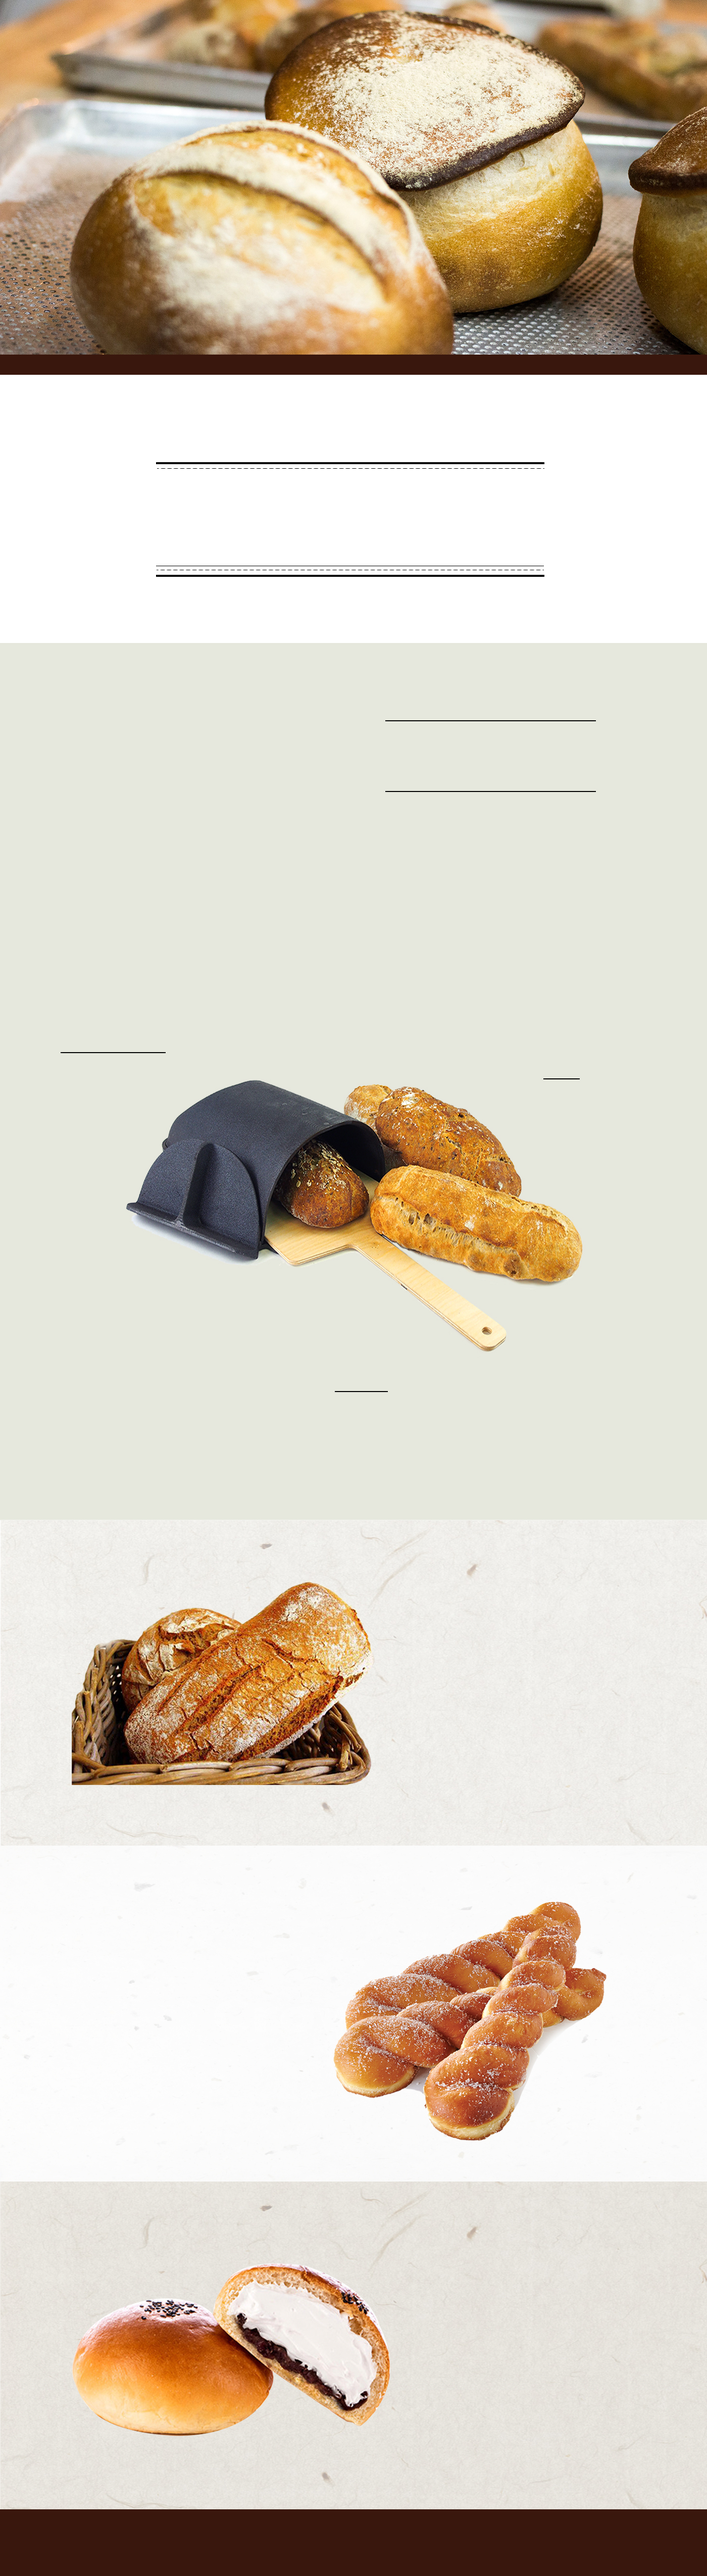
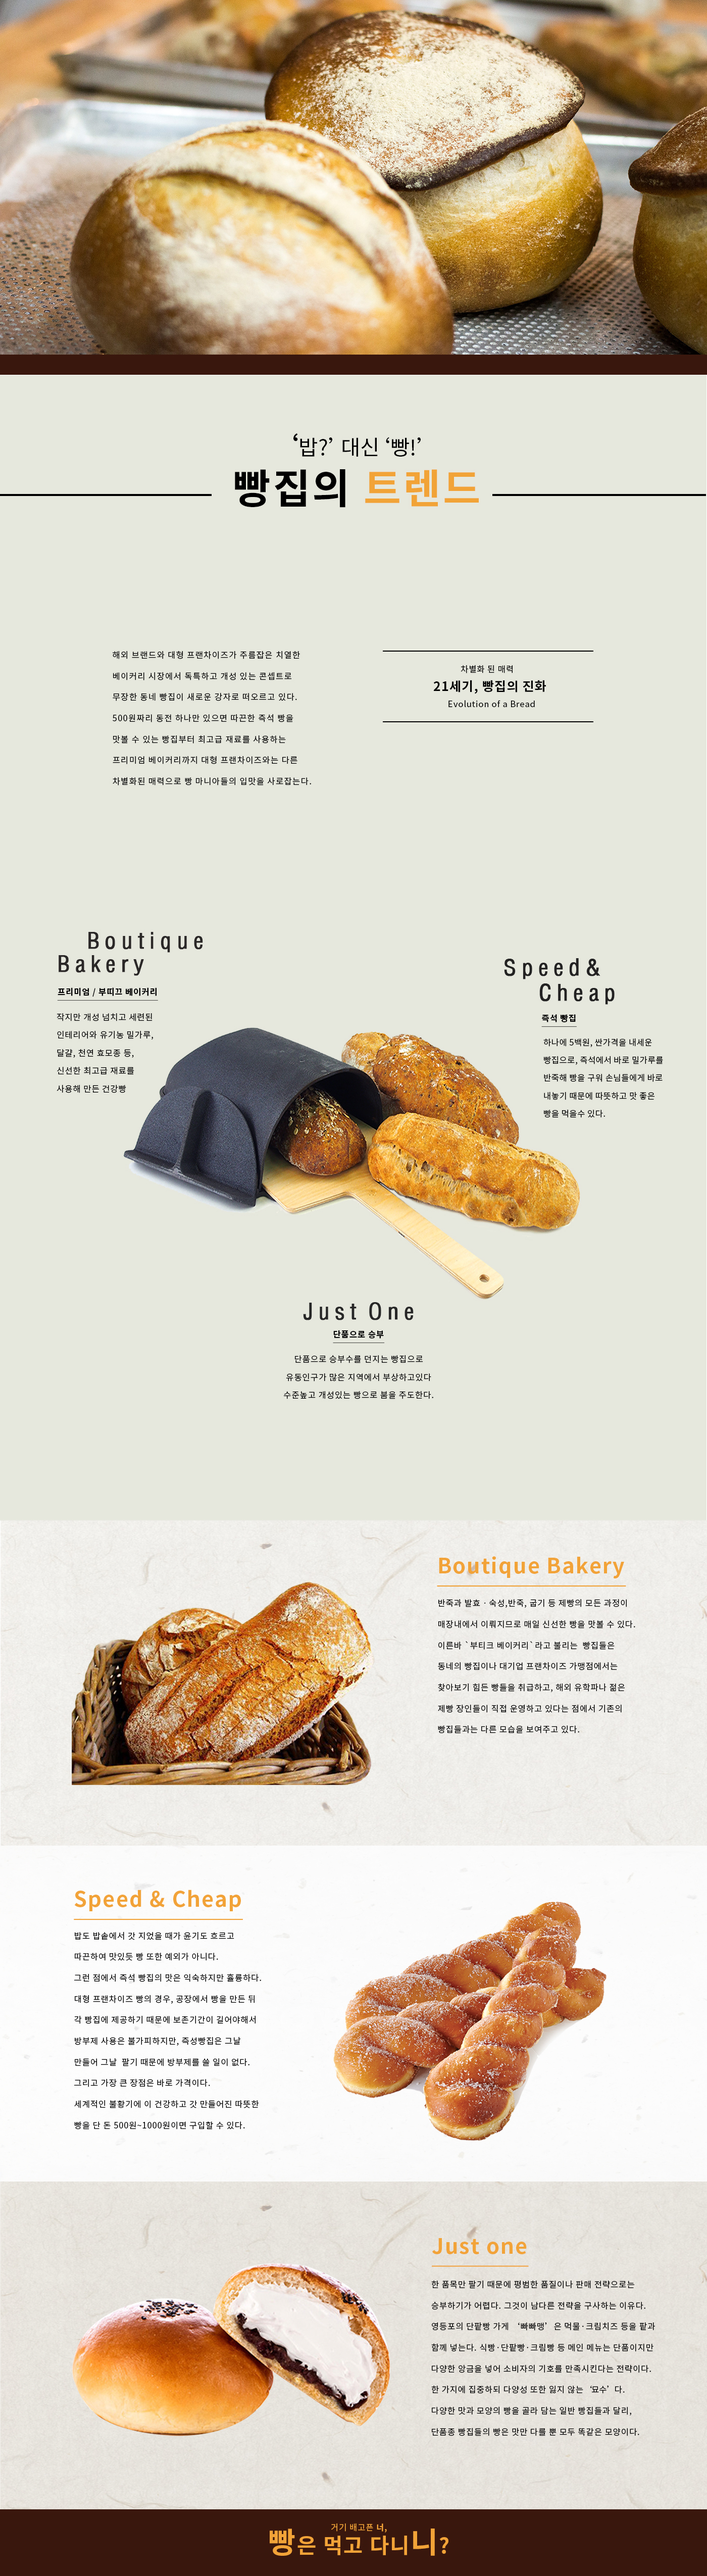
Add files via upload

diff --git a/index.html b/index.html
@@ -39,30 +39,32 @@
 		#contents1 { background: url('./img/2.jpg') no-repeat 50% 50%; background-size:100%  margin:0 auto; height:5100px; }
 	
 
-		#contents1 #p20 {top:-200px; left:540px; font-size:3em; line-height: 1.4; font-weight: 400;  }
-		#contents1 #p21 {top:-130px; left:455px; font-size:5em; line-height: 1.4; font-weight: 700; letter-spacing: 0.3px; }
-		#contents1 #p22 {top:-240px; left:705px; font-size:5em; line-height: 1.4; font-weight: 700;  color:#f2a338; }
+		#contents1 #p20 {top:-170px; left:540px; font-size:3em; line-height: 1.4; font-weight: 400;  }
+		#contents1 #p21 {top:-180px; left:455px; font-size:5em; line-height: 1.4; font-weight: 700; letter-spacing: 0.3px; }
+		#contents1 #p22 {top:-292px; left:705px; font-size:5em; line-height: 1.4; font-weight: 700;  color:#f2a338; }
 
 		
-		#contents1 #p1 {top:1415px; left:230px; font-size:1.15em; line-height: 2.3; font-weight: 400; }
+		#contents1 #p1 {top:1285px; left:230px; font-size:1.15em; line-height: 2.3; font-weight: 400; }
 		
-		#contents1 #p2 {top:1150px; left:920px; font-size:1.1em; line-height: 2.3; font-weight: 400; }
-		#contents1 #p3 {top:1135px; left:865px; font-size:1.7em; line-height: 2.2; font-weight: 700; }
-		#contents1 #p10 {top:1125px; left:895px; font-size:1.1em; line-height: 2.2; font-weight: 400; }
+		#contents1 #p2 {top:1010px; left:920px; font-size:1.1em; line-height: 2.3; font-weight: 400; }
+		#contents1 #p3 {top:995px; left:865px; font-size:1.7em; line-height: 2.2; font-weight: 700; }
+		#contents1 #p10 {top:985px; left:895px; font-size:1.1em; line-height: 2.2; font-weight: 400; }
 		
 
-		#contents1 #p4 {top:1615px; left:120px; font-size:1.1em; line-height: 2.4; font-weight: 700;letter-spacing: -0.4px; }
-		#contents1 #p5 {top:1625px; left:120px; font-size:1.1em; line-height: 2.1; font-weight: 400; }
+		#contents1 #p4 {top:1495px; left:120px; font-size:1.1em; line-height: 2.4; font-weight: 700;letter-spacing: -0.4px; }
+		#contents1 #p5 {top:1505px; left:120px; font-size:1.1em; line-height: 2.1; font-weight: 400; }
 		
-		#contents1 #p6 {top:1445px; left:1075px; font-size:1.1em; line-height: 2.4; font-weight: 700; letter-spacing: -0.4px;}
-		#contents1 #p7 {top:1455px; left:1075px; font-size:1.1em; line-height: 2.1; font-weight: 400; letter-spacing: -0.4px;}
+		#contents1 #p6 {top:1345px; left:1075px; font-size:1.1em; line-height: 2.4; font-weight: 700; letter-spacing: -0.4px;}
+		#contents1 #p7 {top:1355px; left:1075px; font-size:1.1em; line-height: 2.1; font-weight: 400; letter-spacing: -0.4px;}
 		
-		#contents1 #p8 {top:1845px; left:14px; font-size:1.1em; line-height: 2.4; font-weight: 700; text-align:center;letter-spacing: -0.5px;}
-		#contents1 #p9 {top:1855px; left:11px; font-size:1.1em; line-height: 2.1; font-weight: 400; text-align:center; }
+		#contents1 #p8 {top:1745px; left:14px; font-size:1.1em; line-height: 2.4; font-weight: 700; text-align:center;letter-spacing: -0.5px;}
+		#contents1 #p9 {top:1755px; left:11px; font-size:1.1em; line-height: 2.1; font-weight: 400; text-align:center; }
 
-		#contents1 #p11 {top:625px; left:118px; font-size:2.6em; line-height: 1.1; font-weight: 600;letter-spacing: 1.5px;}
-		#contents1 #p12 {top:585px; left:1000px; font-size:2.6em; line-height: 1.1; font-weight: 600;letter-spacing: 1.5px;}
-		#contents1 #p13 {top:1170px; left:620px; font-size:2.6em; line-height: 1.1; font-weight: 600;letter-spacing: 1.5px;}
+		#contents1 #p11 {top:505px; left:118px; font-size:2.6em; line-height: 1.1; font-weight: 600;letter-spacing: 1.5px;}
+		
+		#contents1 #p12 {top:485px; left:1000px; font-size:2.6em; line-height: 1.1; font-weight: 600;letter-spacing: 1.5px;}
+		
+		#contents1 #p13 {top:1070px; left:620px; font-size:2.6em; line-height: 1.1; font-weight: 600;letter-spacing: 1.5px;}
 
 		#contents1 #p14 {top:1540px; left:870px; font-size:2.6em; line-height: 1.1; font-weight: 600;letter-spacing: 1.5px;color:#f2a338;}
 		#contents1 #p15 {top:1575px; left:870px; font-size:1.1em; line-height: 2.3; font-weight: 400;letter-spacing: 1.5px;}
@@ -178,7 +180,7 @@
 				수준높고 개성있는 빵으로 붐을 주도한다.<br>
 			 </p>
 			<p id="p20">
-				<b>'밥?'</b> 대신 <b>'빵!'</b>
+				'밥?' 대신 '빵!'
 			</p>
 
 			<p id="p21">
